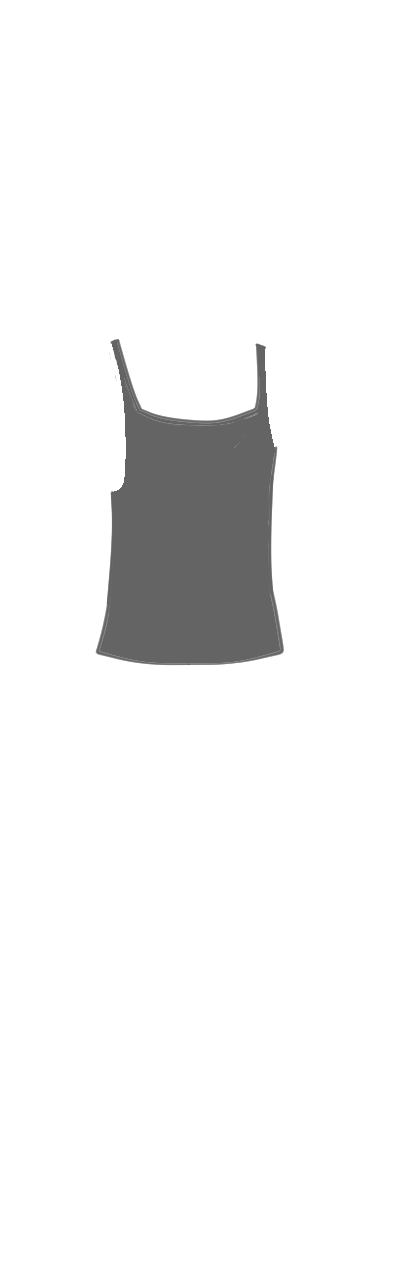
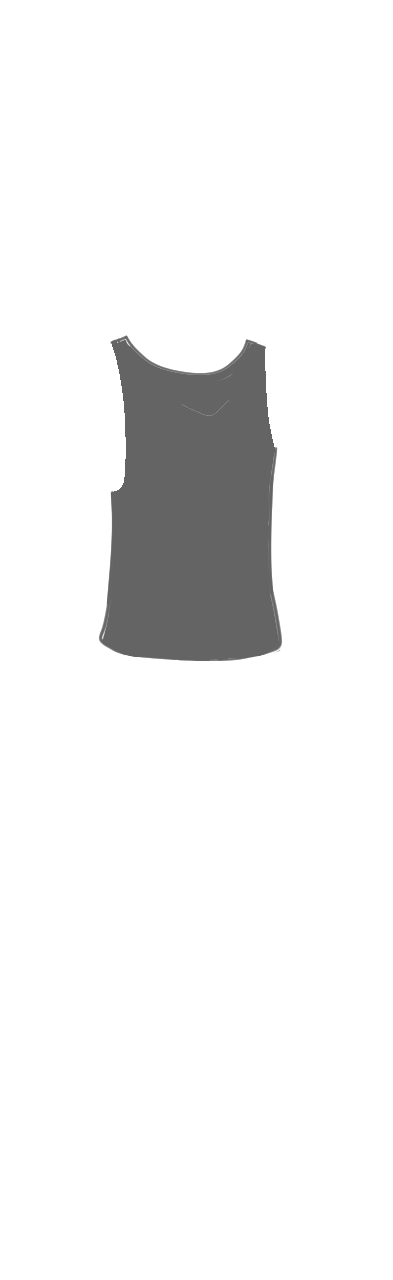
overshirts added

Changed region(s): [[0.3053, 0.25, 0.6718, 0.3438], [0.2443, 0.5, 0.7328, 0.5312]]

diff --git a/code/generated.js b/code/generated.js
@@ -19,7 +19,7 @@ const eyetype_list_f = ["medium eyelashes","long eyelashes",];
 const eyetype_list_m = ["medium eyelashes","short eyelashes",];
 const eyetype_list_w = [];
 const chest_image_list = ["none","small","medium","big","bigpants","smallwide","mediumwide","bigwide",];
-const top_nosleeves_list = ["none","vest",];
+const top_nosleeves_list = ["none","bikini","vest",];
 const overshirt_nosleeves_list = ["none",];
 const coat_nosleeves_list = ["none","wrap","medium cloak",];
 const no_chest_coat_list = ["robe","robe hood","medium cloak","medium cloak hood","long cloak","long cloak hood","wrap",];
@@ -40,17 +40,17 @@ const socks_list_d = [["none","ankle high","mid calf","knee high","thigh high","
 const shoes_list_d = [["none","sandals","slip ons","sneakers","high boots","pumps",],["none","sandals","slip ons","sneakers","boots",],[],];
 const gloves_list_d = [["none","short gloves","medium gloves","bracelets",],["none","short gloves",],["none",],];
 const top_sleeve_list_d = [["sleeveless","short","long","puffy",],["sleeveless","short","long","puffy shirt","long shirt",],["puffy","puffy shirt",],];
-const top_list_d = [["none","chinese collar","vest","boatneck","gathered","low vee",],["none","chinese collar","vest","open shirt","high collar shirt",],["high collar shirt",],];
-const top_dec_list_d = [["boatneck","gathered","low vee",],["boatneck","gathered","low vee",],[],];
+const top_list_d = [["none","vest","tee","chinese collar","turtleneck","bikini","square","boatneck","gathered","low vee",],["none","vest","tee","chinese collar","turtleneck","open shirt","button up","high collar shirt",],["high collar shirt",],];
+const top_dec_list_d = [["square","gathered","low vee",],["square","gathered","low vee",],[],];
 const overshirt_sleeve_list_d = [["sleeveless","long","short",],["sleeveless","long","short",],[],];
 const coat_sleeve_list_d = [["sleeveless","short","scrunched","long","long blocky",],["sleeveless","short","scrunched","long","long blocky",],[],];
 const bottom_list_d = [["none","empire skirt","split empire skirt","long skirt",],["none","breeches","trousers",],["empire skirt","split empire skirt","breeches",],];
 const bottom_dec_list_d = [["split empire skirt","empire skirt",],["split empire skirt","empire skirt",],[],];
 const neckwear_list_d = [["none","beaded necklace","choker","jewelled necklace","beads",],["none","cravat","tie","bow",],["bow",],];
 const neckwear_dec_list_d = [["jewelled necklace","beaded necklace",],["jewelled necklace","beaded necklace",],[],];
-const overshirt_list_d = [["none","button up vee",],["none","button up vee",],[],];
+const overshirt_list_d = [["none","button up vee","open shirt","vee","sweater",],["none","button up vee","open shirt","vee","sweater",],[],];
 const overshirt_dec_list_d = [["button up vee",],["button up vee",],[],];
-const top_collar_list_d = [["none",],["open shirt","high collar shirt",],["none",],];
+const top_collar_list_d = [["none",],["open shirt","button up","high collar shirt",],["none",],];
 const coat_list_d = [["none","medium cloak","dress jacket","wrap",],["none","short jacket","overcoat","jama",],["medium cloak","jama",],];
 const coat_dec_list_d = [["dress jacket","jama",],["dress jacket","jama",],[],];
 const chest_list_d = [["none","small","medium","big",],["none",],["none",],];

diff --git a/code/generate_images.py b/code/generate_images.py
@@ -192,14 +192,14 @@ gloves_list_m = ["none", "short gloves"]
 gloves_list_w = ["none",]
 gloves_list_d = [gloves_list_f,gloves_list_m,gloves_list_w]
 
-top_list_u = ["none","chinese collar","vest" ]
-top_list_f = top_list_u+["boatneck","gathered","low vee"]
-top_list_m= top_list_u+["open shirt","high collar shirt"] 
+top_list_u = ["none","vest","tee", "chinese collar","turtleneck" ]
+top_list_f = top_list_u+["bikini","square", "boatneck","gathered","low vee"]
+top_list_m= top_list_u+["open shirt","button up", "high collar shirt"] 
 top_list_w = ["high collar shirt"]
 top_list_d = [top_list_f,top_list_m,top_list_w]
-top_nosleeves_list = ["none", "vest"]
+top_nosleeves_list = ["none", "bikini", "vest"]
 
-top_collar_list = ["open shirt","high collar shirt"] 
+top_collar_list = ["open shirt","button up","high collar shirt"] 
 top_collar_list_d = [["none"],top_collar_list,["none"]]
 
 top_sleeve_list_u = ["sleeveless", "short","long"]
@@ -208,7 +208,7 @@ top_sleeve_list_m = top_sleeve_list_u+["puffy shirt", "long shirt"]
 top_sleeve_list_w = ["puffy", "puffy shirt"]
 top_sleeve_list_d = [top_sleeve_list_f,top_sleeve_list_m,top_sleeve_list_w]
 
-overshirt_list_u = ["none","button up vee"]
+overshirt_list_u = ["none","button up vee", "open shirt", "vee","sweater"]
 overshirt_list_f = overshirt_list_u + []
 overshirt_list_m = overshirt_list_u + []
 overshirt_list_w = []
@@ -308,7 +308,7 @@ wheelchair_coat_list_d = default_list(wheelchair_coat_list)
 
 wheelchair_bottom_dec_list = []#["split empire skirt"]
 wheelchair_bottom_dec_list_d = default_list(wheelchair_bottom_dec_list)
-top_dec_list = ["boatneck","gathered","low vee"]
+top_dec_list = ["square","gathered","low vee"]
 top_dec_list_d = default_list(top_dec_list)
 earrings_dec_list = ["round earrings"]
 earrings_dec_list_d = default_list(earrings_dec_list)
@@ -801,7 +801,7 @@ def runStuff():
     # "coat","coat_sleeves","coat_dec","coat_back"
     #"top","top_sleeves","top_dec","top_collar"
     for c in closet:
-        if c.name in ["mouth"]:
+        if c.name in ["overshirt"]:
             process_portrait_part(c)
     makeWinks()
     #makeStubble() 
